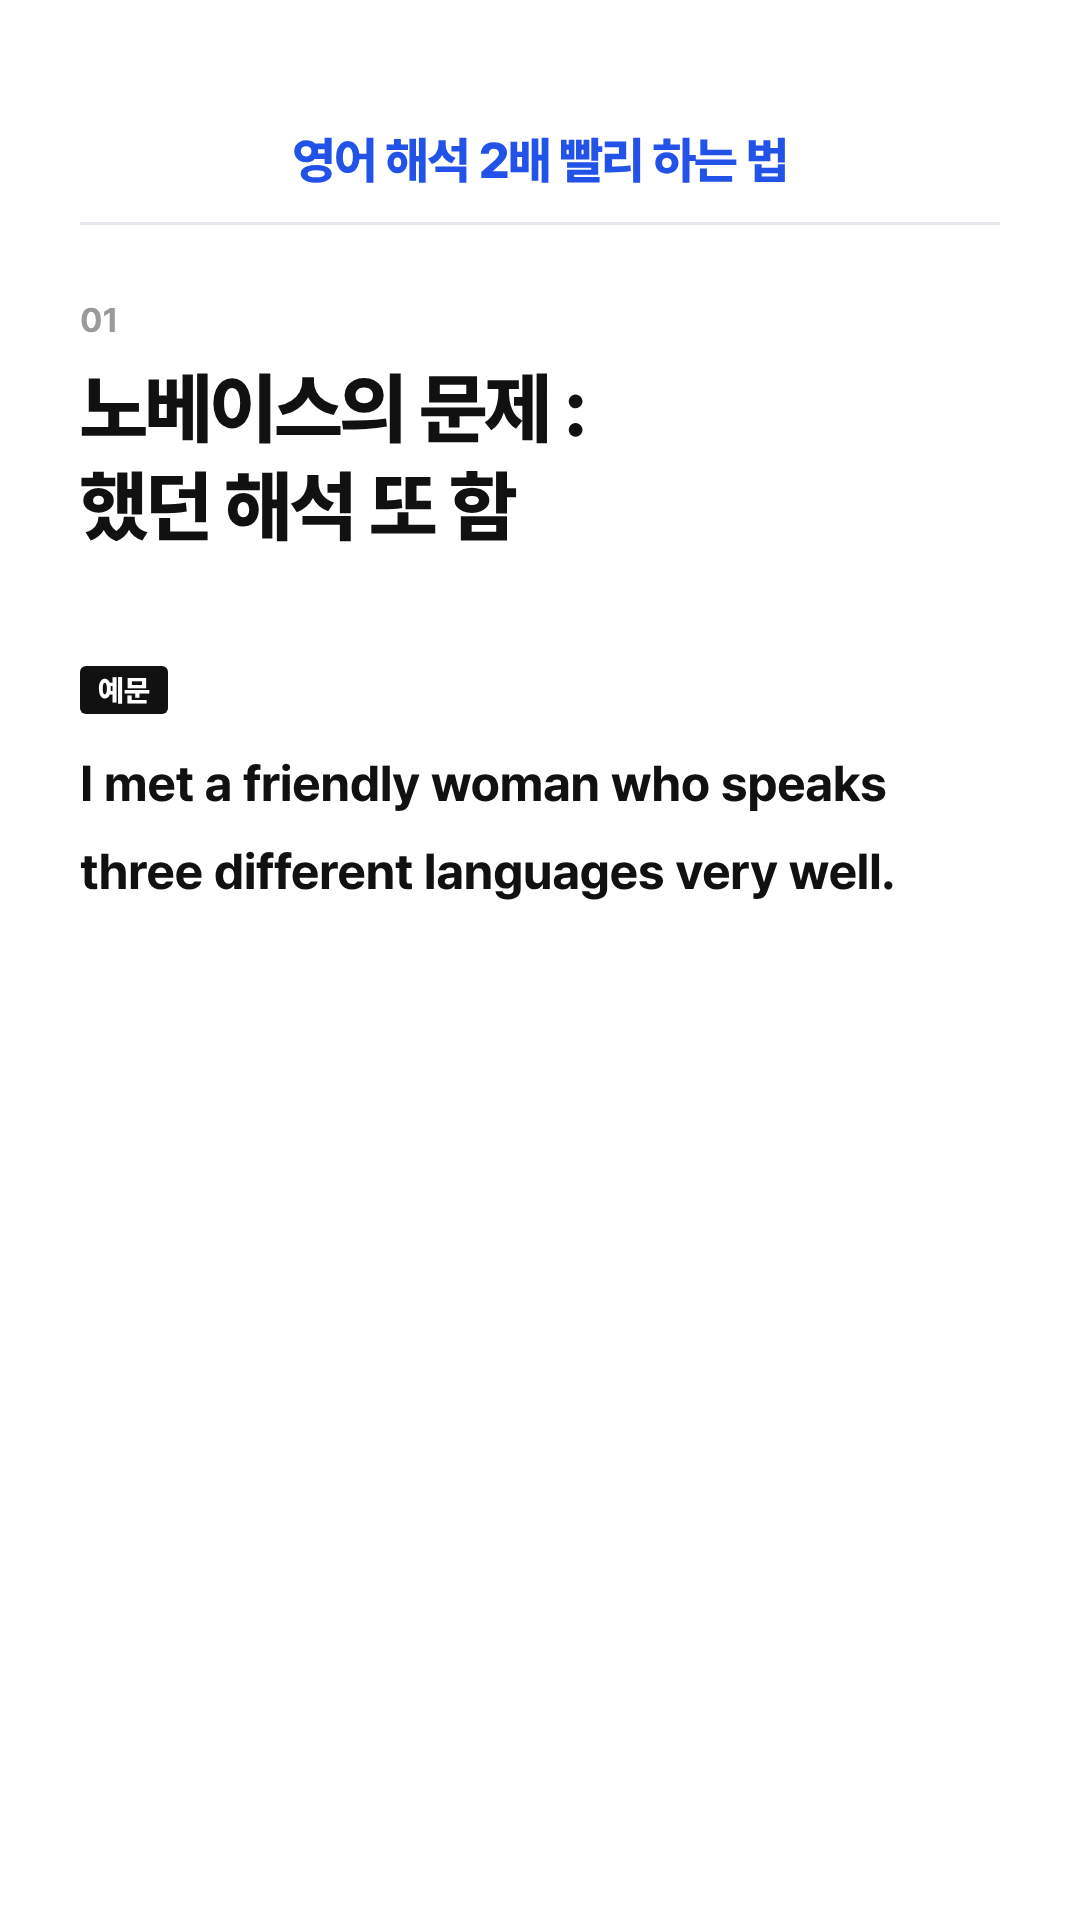
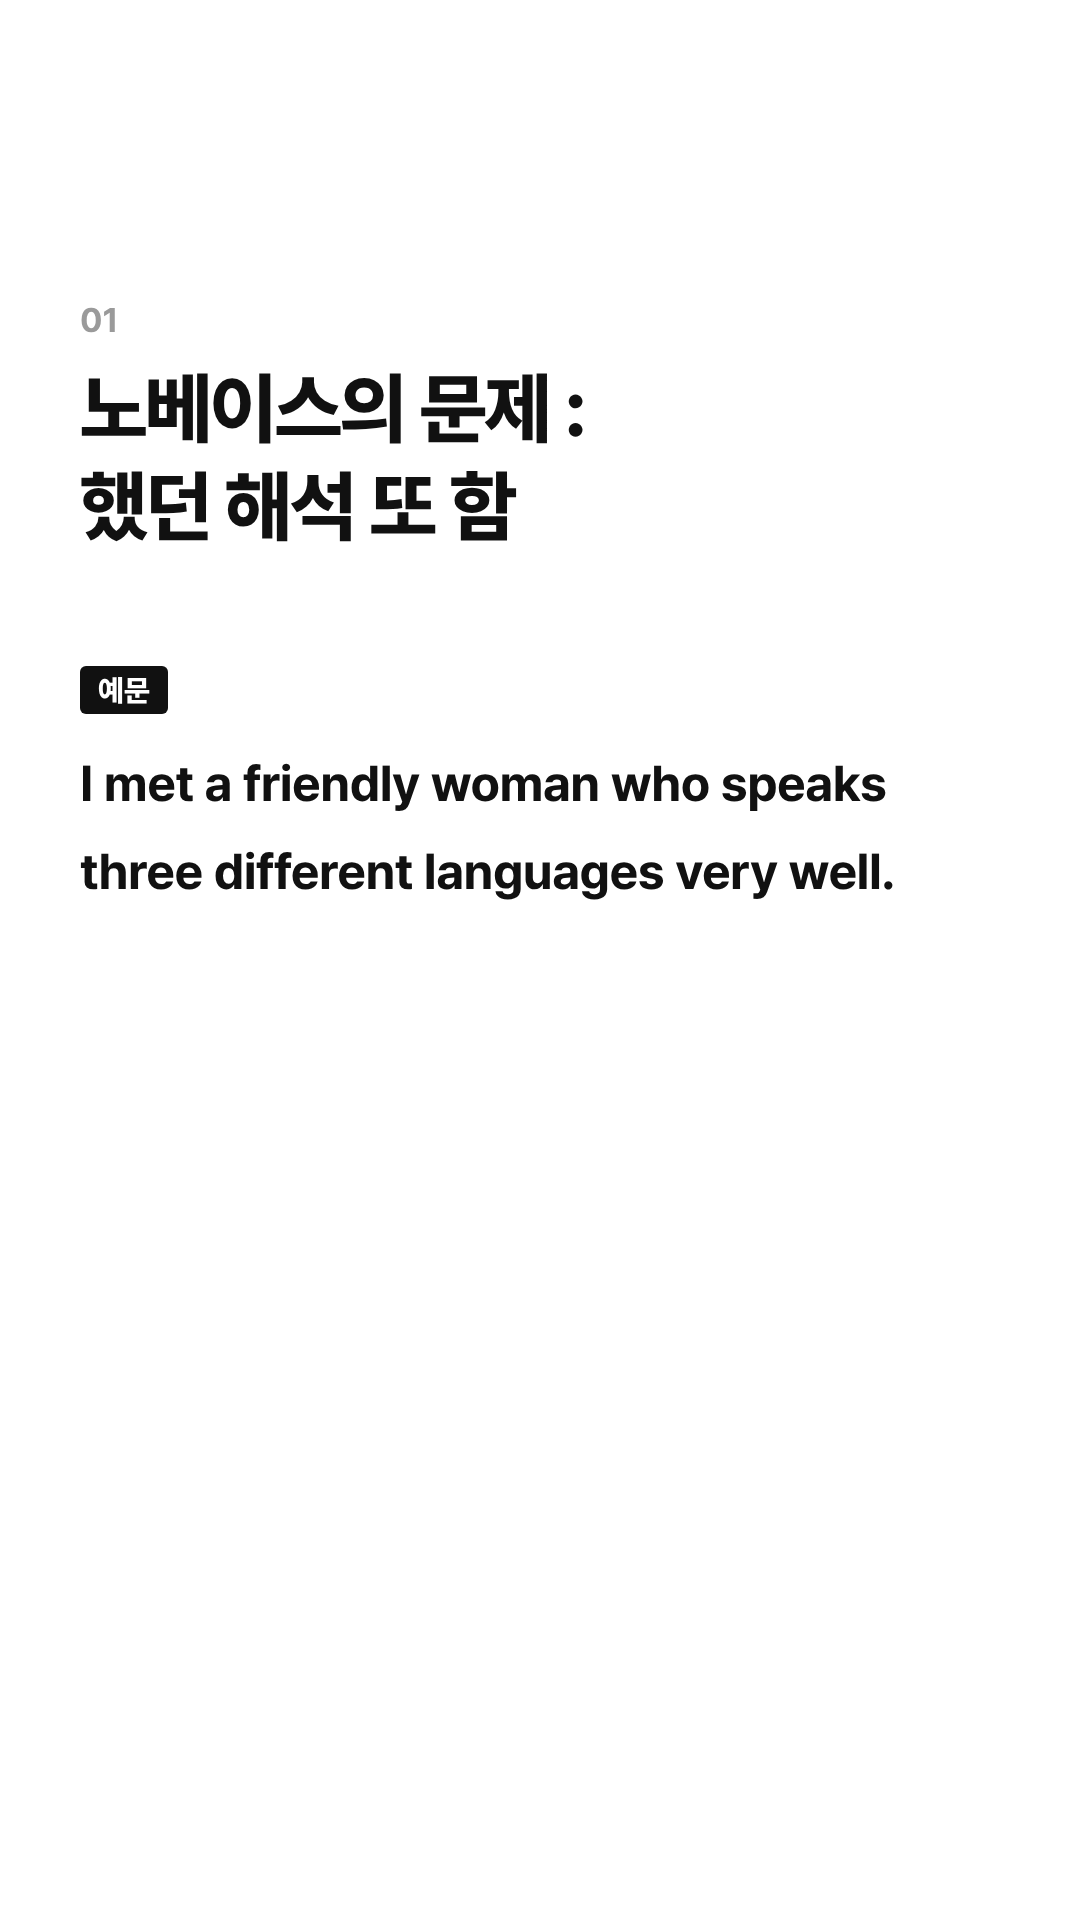
Card 01 without the series title (added in editing instead)
Claude-Session: https://claude.ai/code/session_01Rym27oCy7NFVPU9s4bdxz4

Changed region(s): [[0.275, 0.0625, 0.7333, 0.0938]]

diff --git a/motion/src/tip/StudyCard.tsx b/motion/src/tip/StudyCard.tsx
@@ -4,13 +4,13 @@ import {FONT} from '../theme';
 import '../fonts';
 
 /** Lecture card (1080x1920, white) for recording on the iPad: series title centred on top, card number, headline, example. */
-export type StudyCardProps = {series: string; no: string; head: string[]; label?: string; example?: string};
+export type StudyCardProps = {series?: string; no: string; head: string[]; label?: string; example?: string};
 const BLUE = '#2352E8';
 
 export const StudyCard: React.FC<StudyCardProps> = ({series, no, head, label, example}) => (
   <AbsoluteFill style={{background: '#fff', fontFamily: FONT, color: '#111', padding: '0 80px'}}>
-    <div style={{position: 'absolute', left: 0, right: 0, top: 130, textAlign: 'center', fontSize: 50, fontWeight: 800, letterSpacing: -1.5, color: BLUE}}>{series}</div>
-    <div style={{position: 'absolute', left: 80, right: 80, top: 222, height: 3, background: '#E6E8EE'}} />
+    {series ? <><div style={{position: 'absolute', left: 0, right: 0, top: 130, textAlign: 'center', fontSize: 50, fontWeight: 800, letterSpacing: -1.5, color: BLUE}}>{series}</div>
+      <div style={{position: 'absolute', left: 80, right: 80, top: 222, height: 3, background: '#E6E8EE'}} /></> : null}
     <div style={{position: 'absolute', left: 80, top: 300, fontSize: 34, fontWeight: 700, color: '#9A9A9A'}}>{no}</div>
     <div style={{position: 'absolute', left: 80, right: 80, top: 360, fontSize: 78, fontWeight: 800, lineHeight: 1.25, letterSpacing: -2.5}}>
       {head.map((h, i) => <div key={i}>{h}</div>)}

diff --git a/motion/src/Root.tsx b/motion/src/Root.tsx
@@ -104,7 +104,7 @@ export const RemotionRoot: React.FC = () => (
         defaultProps={{video: 'rp5short.mp4', look: 'C', title: v.title, marks: v.marks as Mark[], lines: v.lines, cards: v.cards, notes: [], cams: v.cams}} />
     ))}
     <Composition id="StudyCard1" component={StudyCard} fps={30} width={1080} height={1920} durationInFrames={1}
-      defaultProps={{series: '영어 해석 2배 빨리 하는 법', no: '01', head: ['노베이스의 문제 :', '했던 해석 또 함'], label: '예문',
+      defaultProps={{no: '01', head: ['노베이스의 문제 :', '했던 해석 또 함'], label: '예문',
         example: 'I met a friendly woman who speaks three different languages very well.'}} />
     <Composition id="EmoReel" component={Emo} fps={FPS} width={1080} height={1920} durationInFrames={568}
       defaultProps={{video: 'rp_base.mp4', cues: [
